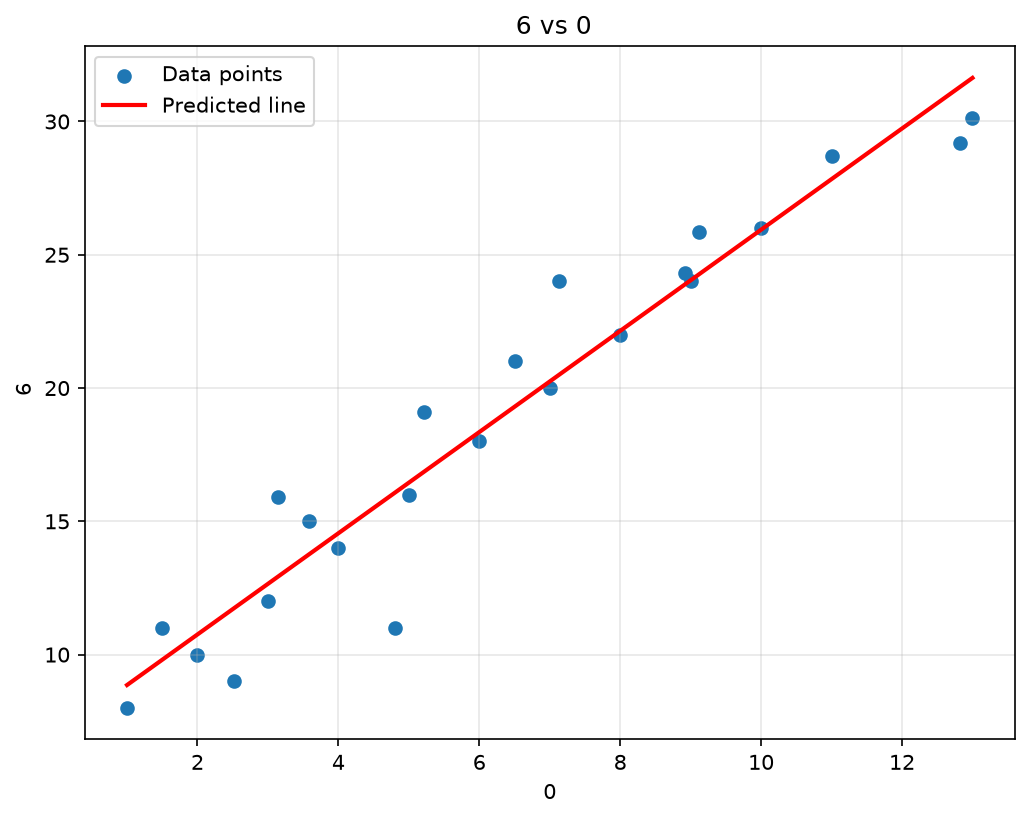
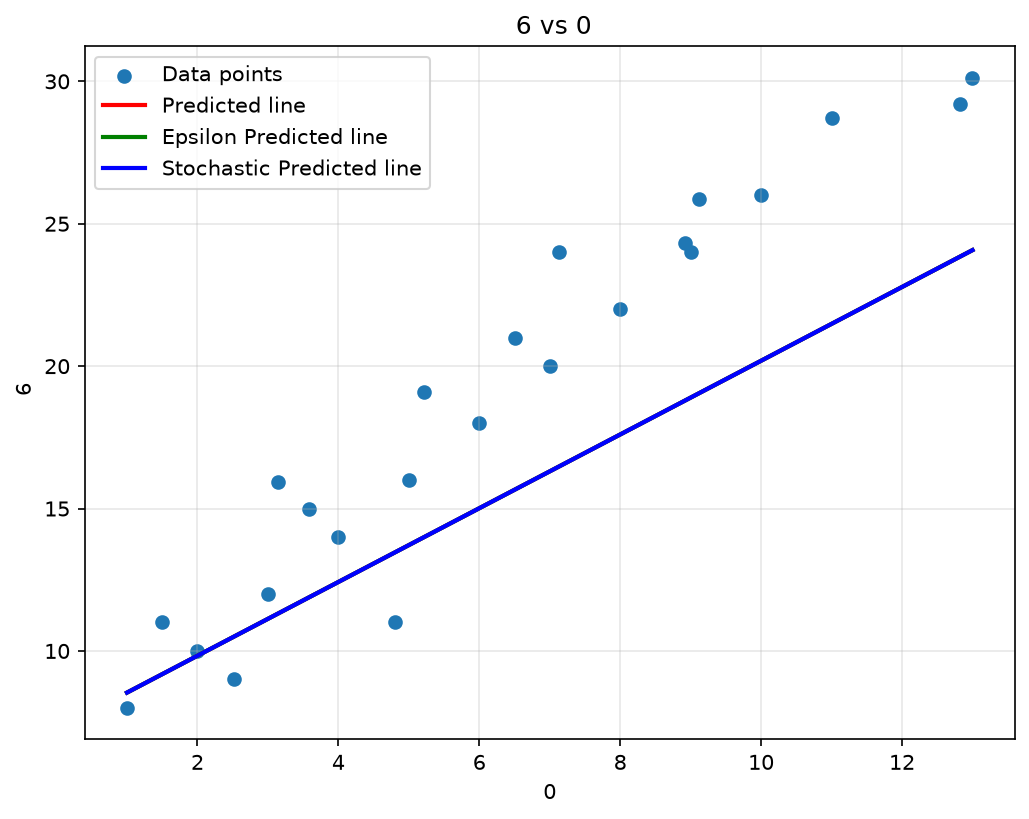
did i not commit earlier? oops

diff --git a/MachineLearning/gradientdescent_stochastic.py b/MachineLearning/gradientdescent_stochastic.py
@@ -1,0 +1,93 @@
+import csv
+import numpy as np
+
+CSV_PATH = ".\\MachineLearning\\data.csv"
+X_COLUMN = None
+Y_COLUMN = None
+LEARNING_RATE = 0.01
+EPSILON = 1e-6              # stop when epoch-average cost stops improving by more than this
+MAX_EPOCHS = 100         # safety cap: one epoch = one full pass through the data
+
+THETA_PATH = ".\\MachineLearning\\theta_stochastic.npy"
+COST_HISTORY_PATH = ".\\MachineLearning\\cost_history.npy"
+
+# --- Load data ---
+x_vals = []
+y_vals = []
+
+with open(CSV_PATH, 'r') as file:
+    reader = csv.reader(file)
+    header = next(reader)
+
+    x_idx = 0 if X_COLUMN is None else (
+        int(X_COLUMN) if X_COLUMN.isdigit() else header.index(X_COLUMN)
+    )
+    y_idx = 1 if Y_COLUMN is None else (
+        int(Y_COLUMN) if Y_COLUMN.isdigit() else header.index(Y_COLUMN)
+    )
+
+    for row in reader:
+        if not row:
+            continue
+        x_vals.append(float(row[x_idx]))
+        y_vals.append(float(row[y_idx]))
+
+x = np.array(x_vals)
+y = np.array(y_vals)
+n = len(x)
+print("Total data points:", n)
+
+# --- Stochastic gradient descent ---
+theta = np.array([0.0, 0.0])
+cost_history = []          # average cost per epoch (for plotting)
+rng = np.random.default_rng()
+
+prev_epoch_cost = np.inf
+epoch = 0
+
+while epoch < MAX_EPOCHS:
+    # Shuffle the order of data points each epoch so updates aren't biased by row order
+    indices = rng.permutation(n)
+
+    epoch_cost_sum = 0.0
+
+    for idx in indices:
+        xi = x[idx]
+        yi = y[idx]
+
+        prediction = theta[0] + theta[1] * xi
+        error = prediction - yi
+
+        # Gradient computed from a SINGLE data point (this is what makes it "stochastic")
+        grad_intercept = 2 * error
+        grad_slope = 2 * error * xi
+        gradient = np.array([grad_intercept, grad_slope])
+
+        theta = theta - LEARNING_RATE * gradient
+
+        epoch_cost_sum += error ** 2
+
+    epoch_avg_cost = epoch_cost_sum / n
+    cost_history.append(epoch_avg_cost)
+
+    if epoch % 10 == 0:
+        print(f"Epoch {epoch}: avg MSE = {epoch_avg_cost:.6f}, theta = {theta}")
+
+    # Convergence check: has the epoch-average cost stopped improving meaningfully?
+    if abs(prev_epoch_cost - epoch_avg_cost) < EPSILON:
+        print(f"\nConverged after {epoch} epochs (cost change < {EPSILON}).")
+        break
+
+    prev_epoch_cost = epoch_avg_cost
+    epoch += 1
+else:
+    print(f"\nStopped after reaching MAX_EPOCHS = {MAX_EPOCHS} without full convergence.")
+
+np.save(THETA_PATH, theta)
+np.save(COST_HISTORY_PATH, np.array(cost_history))
+print(f"Saved theta to {THETA_PATH}: intercept={theta[0]:.6f}, slope={theta[1]:.6f}")
+print(f"Saved cost history to {COST_HISTORY_PATH} ({len(cost_history)} epochs)")
+
+print("\nFinal parameters:")
+print(f"Intercept: {theta[0]:.6f}")
+print(f"Slope:     {theta[1]:.6f}")

diff --git a/MachineLearning/plotter.py b/MachineLearning/plotter.py
@@ -184,6 +184,13 @@ def main():
     try:
         theta = np.load(THETA_PATH)
         intercept, slope = theta[0], theta[1]
+        
+        theta_epsilon = np.load(THETA_PATH)
+        intercept_epsilon, slope_epsilon = theta_epsilon[0], theta_epsilon[1]
+
+        theta_stochastic = np.load(THETA_PATH)
+        intercept_stochastic, slope_stochastic = theta_stochastic[0], theta_stochastic[1]
+                
     except FileNotFoundError:
         print(f"Error: {THETA_PATH} not found. Run the training script first.", file=sys.stderr)
         sys.exit(1)
@@ -191,12 +198,21 @@ def main():
     # --- Build the figure ---
     plt.figure(figsize=(8, 6))
     plt.scatter(xs, ys, label="Data points")
-
+    
     # --- Draw the predicted line ---
     x_min, x_max = min(xs), max(xs)
     line_x = np.linspace(x_min, x_max, 100)
     line_y = intercept + slope * line_x
     plt.plot(line_x, line_y, color="red", linewidth=2, label="Predicted line")
+
+    x_min, x_max = min(xs), max(xs)
+    epsilon_line_x = np.linspace(x_min, x_max, 100)
+    epsilon_line_y = intercept_epsilon + slope_epsilon * epsilon_line_x
+    plt.plot(epsilon_line_x, epsilon_line_y, color="green", linewidth=2, label="Epsilon Predicted line")
+    
+    stochastic_line_x = np.linspace(x_min, x_max, 100)
+    stochastic_line_y = intercept_stochastic + slope_stochastic * stochastic_line_x
+    plt.plot(stochastic_line_x, stochastic_line_y, color="blue", linewidth=2, label="Stochastic Predicted line")
 
     plt.xlabel(x_label)
     plt.ylabel(y_label)

diff --git a/MachineLearning/gradientdescent_epsilon.py b/MachineLearning/gradientdescent_epsilon.py
@@ -6,9 +6,9 @@ X_COLUMN = None
 Y_COLUMN = None
 LEARNING_RATE = 0.01
 EPSILON = 1e-6
-MAX_ITERATIONS = 1_000_000
+MAX_ITERATIONS = 2_000_000
 
-THETA_PATH = ".\\MachineLearning\\theta.npy"
+THETA_PATH = ".\\MachineLearning\\theta_epsilon.npy"
 COST_HISTORY_PATH = ".\\MachineLearning\\cost_history.npy"   # <-- new
 
 # --- Load data ---